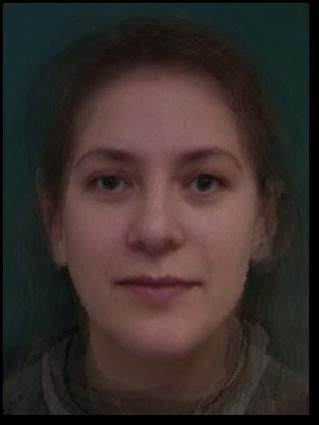
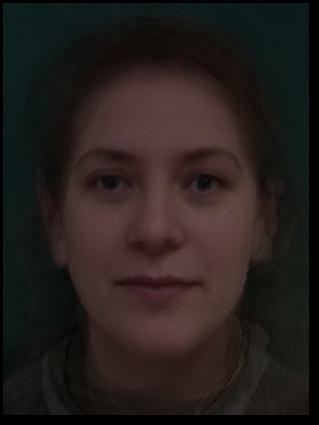
added average female face

diff --git a/3/index.html b/3/index.html
@@ -172,6 +172,10 @@
         </section>
         <section class="image-section">
             <div class="image-card">
+                <img src="media/avg_female_face_copy.jpg.jpg" alt="" />
+                <p>Average female face</p>
+            </div>
+            <div class="image-card">
                 <img src="media/aj_female_shape.jpg" alt="" />
                 <p>AJ morphed into female shape</p>
             </div>
